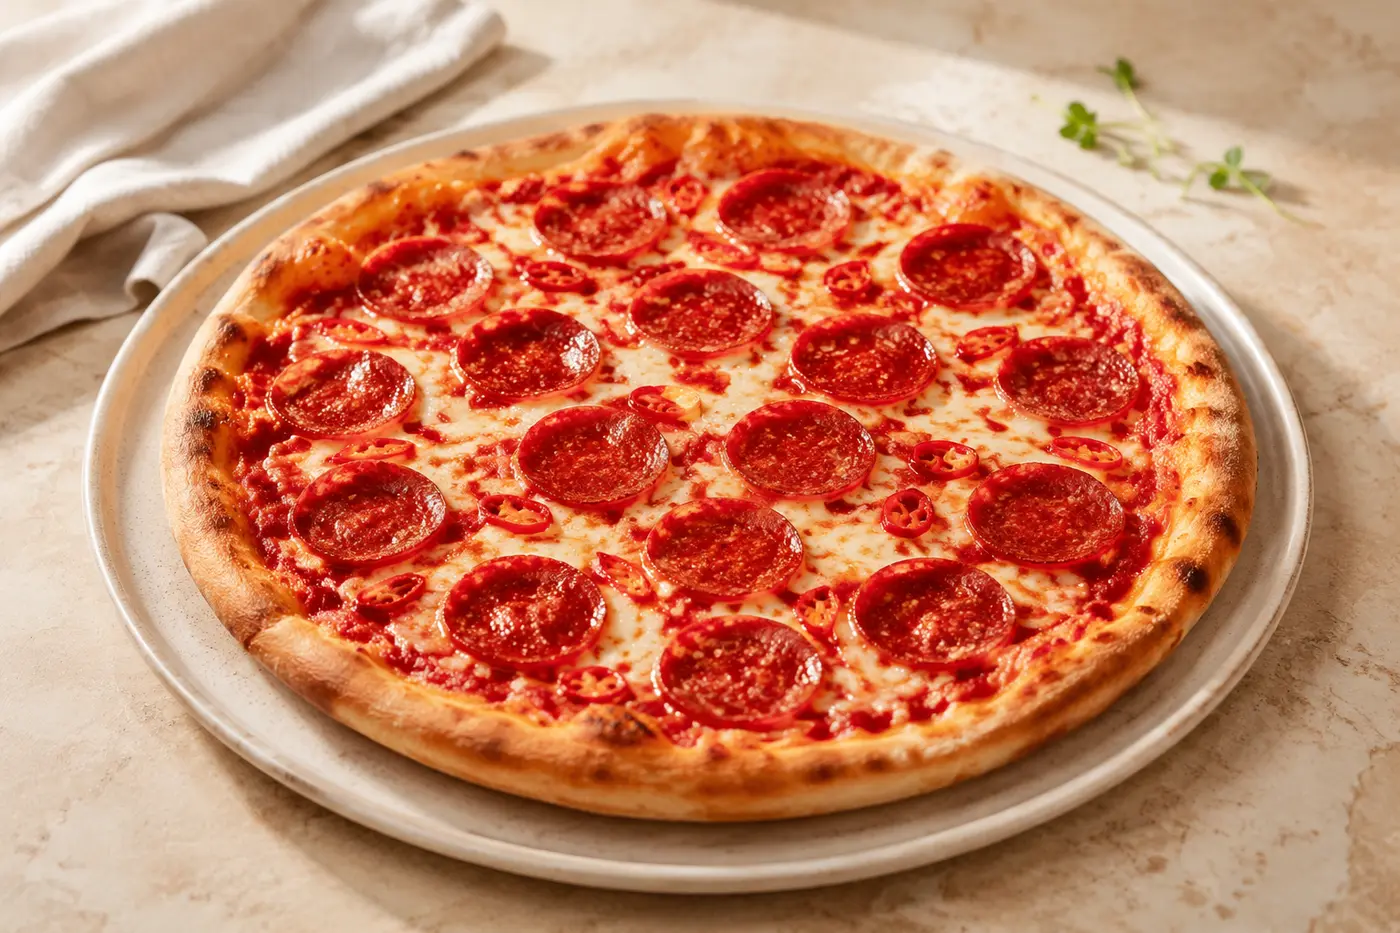
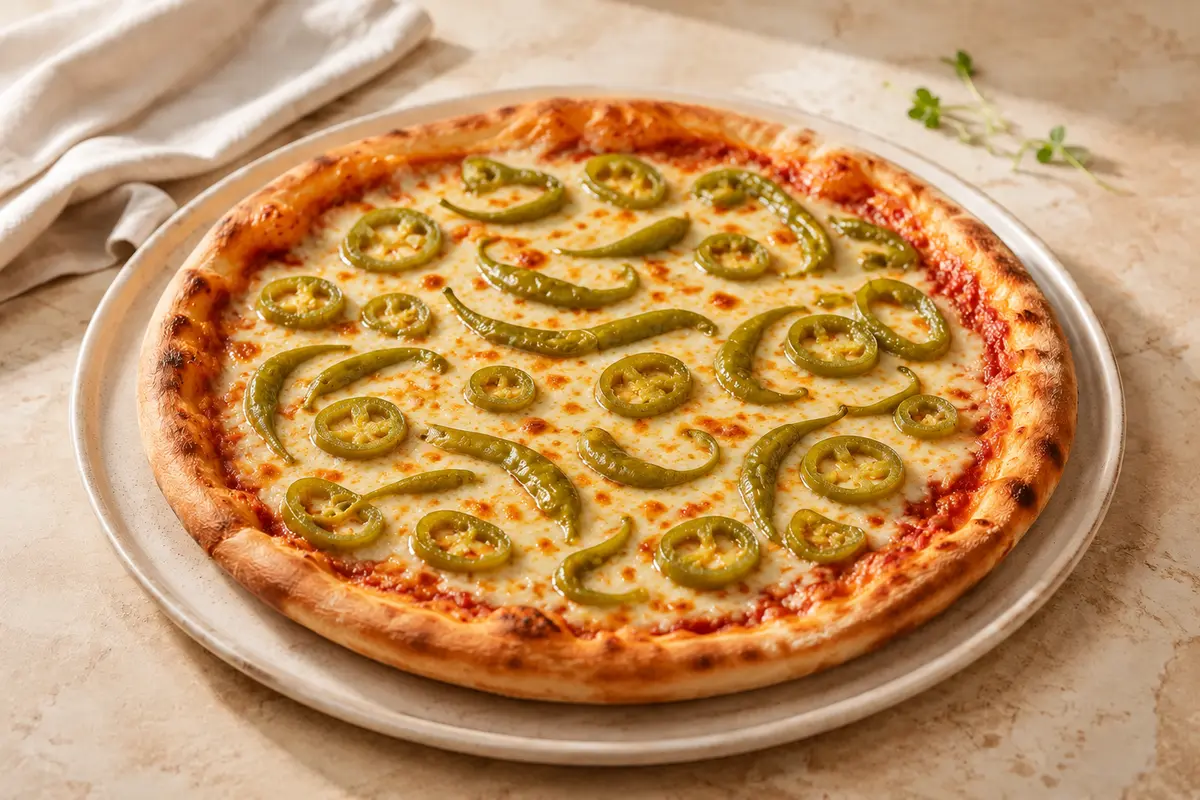
Correct Pizza Peperoni photo and German naming

diff --git a/index.html b/index.html
@@ -494,7 +494,7 @@
           <article class="pizza-card reveal"><img src="assets/pizza-kebab.webp" alt="Pizza Kebab mit gegrilltem Fleisch und roten Zwiebeln" loading="lazy"><div class="pizza-copy"><span class="dish-code">Nr. 14</span><h3>Pizza Kebab</h3><p>Tomatensauce, Mozzarella, Kebabfleisch und rote Zwiebeln.</p><div class="pizza-bottom"><span class="menu-price">Preis folgt</span><button class="add-btn" type="button" data-product="Pizza Kebab" data-number="14" data-kind="pizza-meat">Auswählen</button></div></div></article>
           <article class="pizza-card reveal"><img src="assets/pizza-vegetaria.webp" alt="Pizza Vegetaria mit Gemüse, Pilzen und Oliven" loading="lazy"><div class="pizza-copy"><span class="dish-code">Nr. 15</span><h3>Pizza Vegetaria</h3><p>Tomatensauce, Mozzarella, Gemüse, Pilze und Oliven.</p><div class="pizza-bottom"><span class="menu-price">Preis folgt</span><button class="add-btn" type="button" data-product="Pizza Vegetaria" data-number="15" data-kind="pizza">Auswählen</button></div></div></article>
           <article class="pizza-card reveal"><img src="assets/pizza-quattro-formaggi.webp" alt="Pizza Quattro Formaggi mit vier Käsesorten" loading="lazy"><div class="pizza-copy"><span class="dish-code">Nr. 16</span><h3>Quattro Formaggi</h3><p>Eine cremige Kombination aus vier Käsesorten.</p><div class="pizza-bottom"><span class="menu-price">Preis folgt</span><button class="add-btn" type="button" data-product="Pizza Quattro Formaggi" data-number="16" data-kind="pizza">Auswählen</button></div></div></article>
-          <article class="pizza-card reveal"><img src="assets/pizza-pepperoni.webp" alt="Pizza Pepperoni mit Tomatensauce, Mozzarella und Chili" loading="lazy"><div class="pizza-copy"><span class="dish-code">Nr. 17</span><h3>Pizza Pepperoni</h3><p>Tomatensauce, Mozzarella, würzige Pepperoni und Chili.</p><div class="pizza-bottom"><span class="menu-price">Preis folgt</span><button class="add-btn" type="button" data-product="Pizza Pepperoni" data-number="17" data-kind="pizza">Auswählen</button></div></div></article>
+          <article class="pizza-card reveal"><img src="assets/pizza-pepperoni.webp" alt="Pizza Peperoni mit Tomatensauce, Mozzarella und grünen Peperoni" loading="lazy"><div class="pizza-copy"><span class="dish-code">Nr. 17</span><h3>Pizza Peperoni</h3><p>Tomatensauce, Mozzarella und würzige grüne Peperoni.</p><div class="pizza-bottom"><span class="menu-price">Preis folgt</span><button class="add-btn" type="button" data-product="Pizza Peperoni" data-number="17" data-kind="pizza">Auswählen</button></div></div></article>
         </div>
       </div>
     </section>
@@ -707,7 +707,7 @@
       'Beilage': '07', 'Getränk': '08',
       'Pizza Margherita': '09', 'Pizza Salami': '10', 'Pizza Funghi': '11',
       'Pizza Tonno': '12', 'Pizza Sucuk': '13', 'Pizza Kebab': '14',
-      'Pizza Vegetaria': '15', 'Pizza Quattro Formaggi': '16', 'Pizza Pepperoni': '17',
+      'Pizza Vegetaria': '15', 'Pizza Quattro Formaggi': '16', 'Pizza Peperoni': '17', 'Pizza Pepperoni': '17',
       'Sauce 1': 'S1', 'Sauce 2': 'S2', 'Sauce 3': 'S3',
       'Sauce 4': 'S4', 'Sauce 5': 'S5', 'Sauce 6': 'S6',
       'Peperoni': 'A1', 'Oliven': 'A2', 'Weichkäse nach griechischer Art': 'A3'
